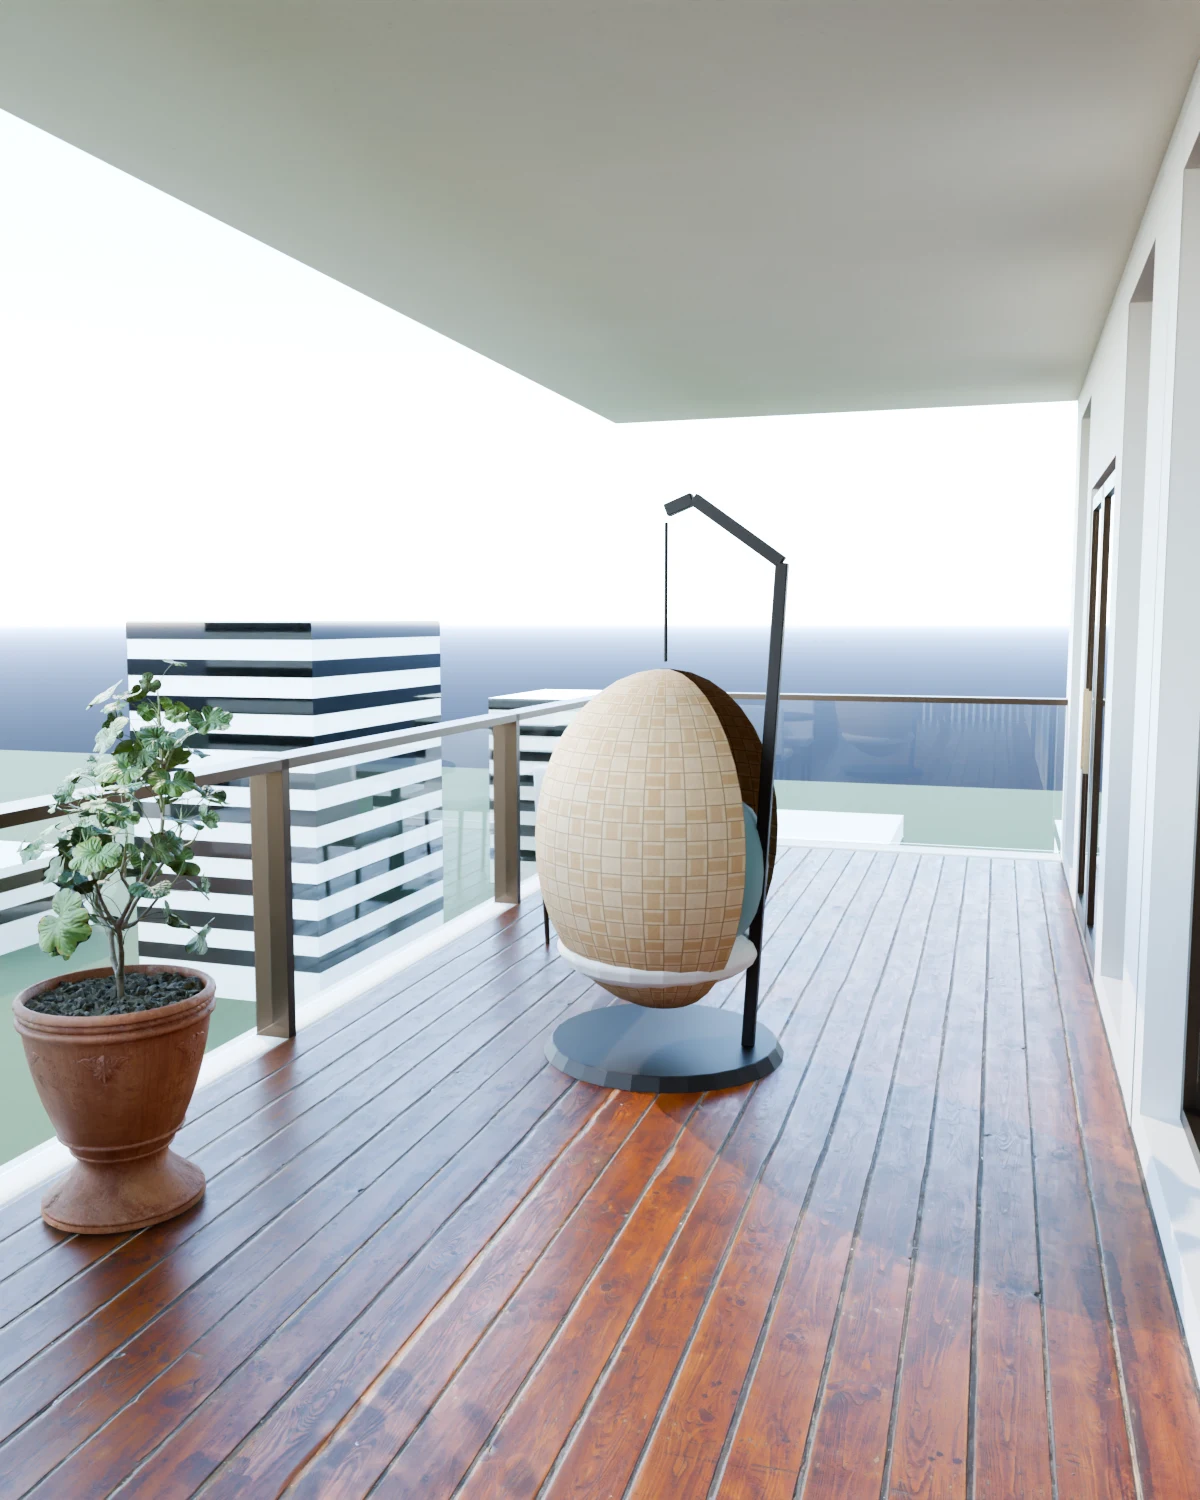
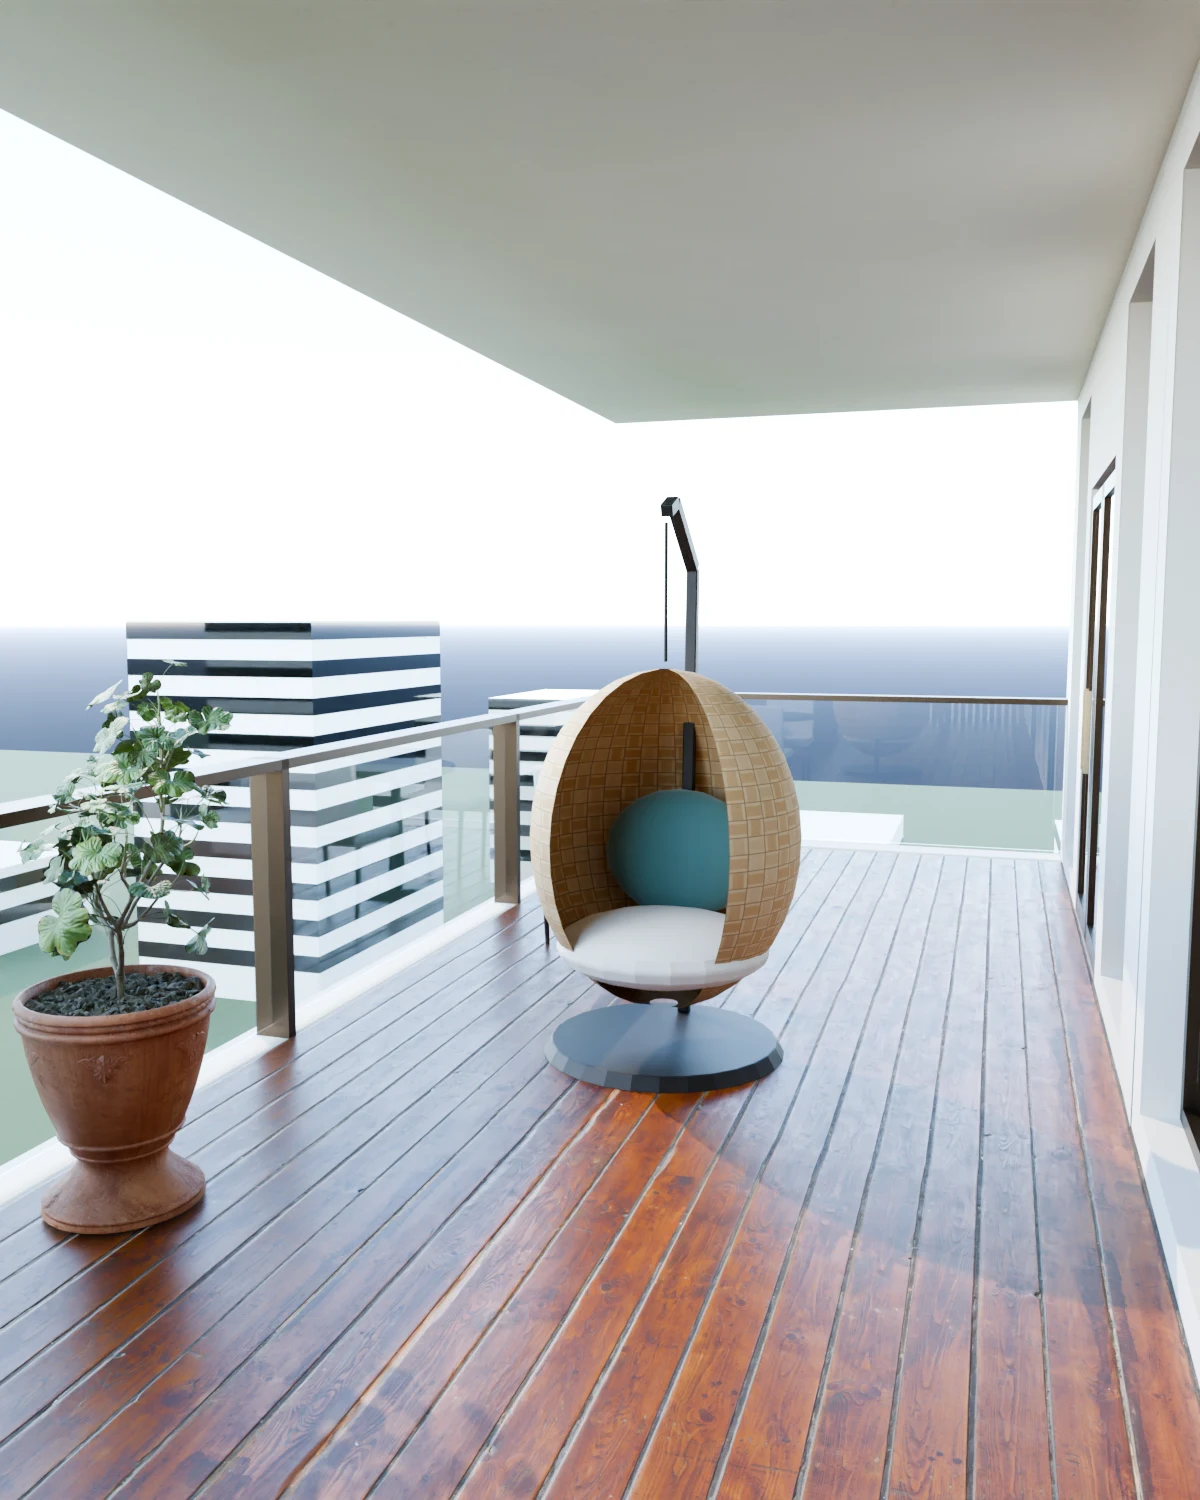
Egg chair: open side faces the front, turned to face along the balcony
The egg shell's opening was built facing the stand's post, so the chair
showed its closed back. The opening now faces the chair's front, and the
chair is turned to face east along the balcony. Balcony and swing views
re-rendered in Blender.

Changed region(s): [[0.4317, 0.3067, 0.6783, 0.7667], [0.8633, 0.8587, 0.9867, 0.8893], [0.9867, 0.7667, 1.0, 0.828]]

diff --git a/haven/src/tour/buildFurniture.ts b/haven/src/tour/buildFurniture.ts
@@ -504,8 +504,8 @@ const builders: Partial<Record<FurnitureDef["type"], (c: Ctx) => void>> = {
     c.hang = { it: c.it, sb: new StaticBuilder(), hookY, eye: [0, 1.22 - hookY, 0.1] };
     HC(c, "darkMetal", 0.008, 0.5, 0, -0.5, 0);
     const shell = new THREE.SphereGeometry(0.5, 32, 18, Math.PI * 0.72, Math.PI * 1.56, 0.05, Math.PI * 0.95);
+    // the open sector is centred on +z, the chair's front (away from the stand's post)
     shell.scale(1, 1.25, 0.95);
-    shell.rotateY(Math.PI);
     shell.translate(0, -1.15, 0);
     c.hang.sb.add(shell, "rattan", I);
     const cushion = new THREE.SphereGeometry(0.4, 20, 10);

diff --git a/haven/src/data/houseLayout.ts b/haven/src/data/houseLayout.ts
@@ -370,7 +370,7 @@ export const furniture: FurnitureDef[] = [
   f("balcony", "roundTable", 2.45, 18.35, 0, { group: "bistro", anchor: true, w: 0.7, d: 0.7 }),
   f("balcony", "chair", 1.8, 18.35, 90, { group: "bistro" }),
   f("balcony", "chair", 3.1, 18.35, 270, { group: "bistro" }),
-  f("balcony", "swingEgg", 4.6, 17.6, 0),
+  f("balcony", "swingEgg", 4.6, 17.6, 90),
   f("balcony", "plant", 6.2, 18.65, 0, { variant: "olive" }),
   f("balcony", "planter", 8.0, 18.75, 0),
   f("balcony", "swingBench", 10.6, 17.7, 0),
